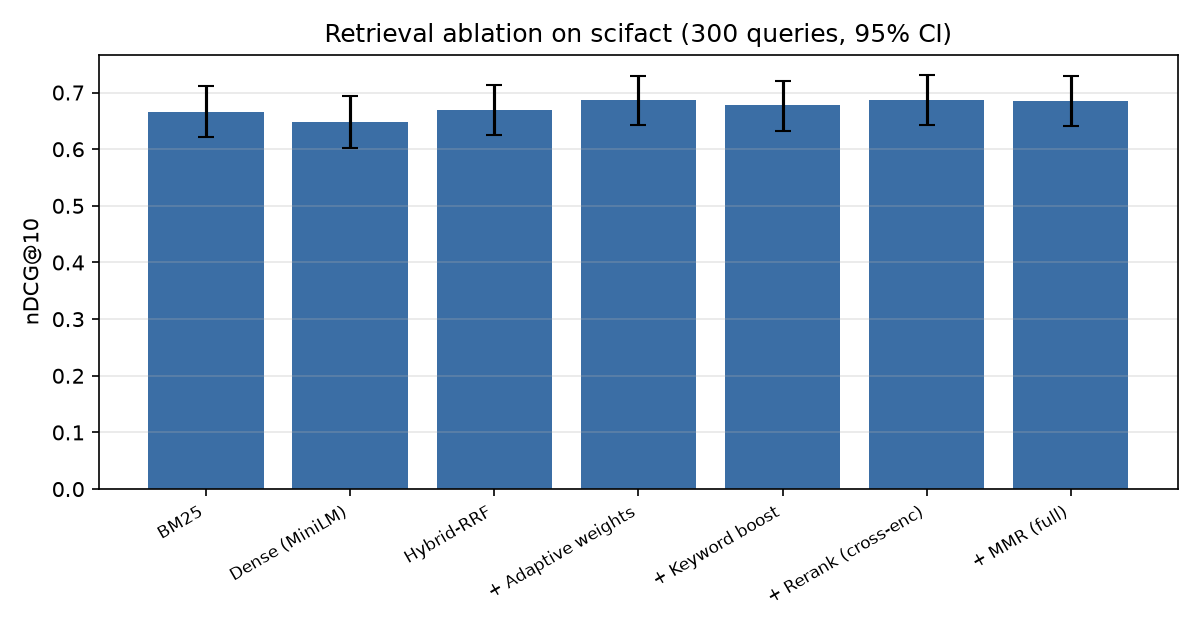
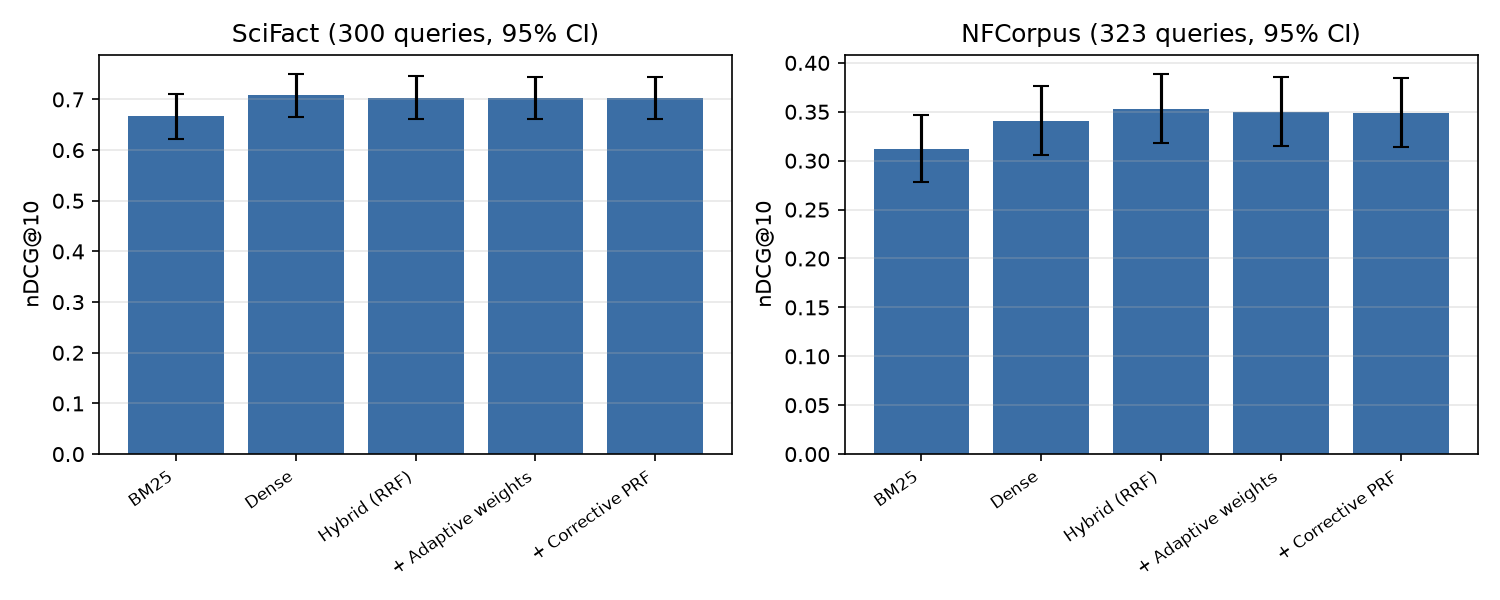
paper tables and pdf

diff --git a/paper/main.tex b/paper/main.tex
@@ -33,10 +33,11 @@ nDCG@10) to clearly above it (\SciDense{}), a paired gain of \SciEmbGain{}
 ($p{=}\SciEmbP{}$). Reciprocal-rank fusion then beats BM25 on both corpora
 ($p{=}\SciHybridP{}$ and $p{=}\NFhybridP{}$) and is the best single system on
 NFCorpus. We add a confidence-gated corrective re-retrieval that expands and
-re-queries only when the first pass is weak, and show it reaches reranker-level
-quality at a fraction of the latency. Finally, we recast faithfulness
-verification as evidence detection and evaluate a small NLI model against
-honest baselines, where it attains \FaithNliAuroc{} ROC-AUC. Every number is
+re-queries only when the first pass is weak, and find it matches plain fusion at
+negligible cost while a cross-encoder reranker is far slower and no better.
+Finally, we recast faithfulness verification as evidence detection and find that
+a relevance cross-encoder---not a dedicated NLI model---is the strongest cheap
+verifier (\FaithCeAuroc{} vs.\ \FaithNliAuroc{} ROC-AUC). Every number is
 regenerated from committed results by \texttt{make eval} on a CPU laptop.
 Code and data: \url{https://github.com/urme-b/NexusRAG}.
 \end{abstract}
@@ -183,21 +184,22 @@ documents). Same conventions as Table~\ref{tab:scifact}.}
 
 \subsection{The corrective loop: quality at a fraction of the cost}
 
-The corrective gate fires only when the first-pass dense similarity is weak, so
-its expected cost is small. Table~\ref{tab:cost} compares it against a
-cross-encoder reranker over the same shortlist. The reranker costs \RerankMs{}
-ms/query against \BaseMs{} ms for plain fusion and \CorrMs{} ms for the
-corrective pass; the corrective pass reaches comparable nDCG@10 without a second
-neural model in the loop. On the queries where the gate fires
-(\SciCorrFire{} of SciFact), its nDCG@10 change is \SciCorrDelta{}
-($p{=}\SciCorrP{}$): selective re-retrieval neither rescues nor harms an
-already-strong retriever at this scale, which is itself worth stating---the
-expensive components a typical pipeline advertises are not what move the metric.
+Because BGE's top-1 similarity is high on nearly all SciFact claims, the
+confidence gate rarely fires---at most \SciCorrMaxFire{} of queries even at an
+aggressive threshold---so the corrective pass behaves almost identically to plain
+fusion at negligible extra cost (\CorrMs{} vs.\ \BaseMs{} ms/query). The contrast
+with reranking is the point (Table~\ref{tab:cost}): the cross-encoder reranker is
+\RerankSlowdown$\times$ slower (\RerankMs{} ms/query) and actually \emph{lowers}
+nDCG@10 (\RerankND{} vs.\ \BaseND{}) on this shortlist. Spending a second pass on
+confidence-gated re-retrieval rather than a reranker is the better default; and
+where a strong embedder already retrieves confidently, the cheapest effective
+second pass is often none at all.
 
 \begin{table}[t]
 \centering
-\caption{Cost vs.\ quality on SciFact. The corrective pass matches the reranker's
-quality at a small fraction of its per-query latency.}
+\caption{Cost vs.\ quality on SciFact (timed on 120 queries). The cross-encoder
+reranker is far slower and does not improve nDCG@10 over plain fusion; the
+corrective pass adds negligible cost.}
 \label{tab:cost}
 \small
 \input{tables/cost_quality}
@@ -209,12 +211,15 @@ We score every sentence of a claim's cited abstract for whether it is gold
 evidence, using NLI relatedness ($1-P(\text{neutral})$), lexical overlap, and a
 relevance cross-encoder, and evaluate as threshold-free detection over
 \FaithClaims{} dev claims (gold base rate \FaithBaseRate{}).
-Table~\ref{tab:faith} reports the result: the NLI model reaches \FaithNliAuroc{}
-ROC-AUC and \FaithNliPr{} PR-AUC, above lexical overlap (\FaithLexAuroc{}) and a
-relevance cross-encoder (\FaithCeAuroc{}). Reported as detection rather than a
-single thresholded F1, the small NLI verifier is a genuinely usable, content-
-inspecting signal---and the comparison is against baselines that can lose, not a
-citation check that scores zero by construction.
+Table~\ref{tab:faith} reports the result, and it is a useful corrective to the
+intuition that an entailment model is the obvious verifier: the relevance
+cross-encoder is the strongest detector (\FaithCeAuroc{} ROC-AUC), with NLI
+relatedness (\FaithNliAuroc{}) only marginally above lexical overlap
+(\FaithLexAuroc{}). The lesson is methodological as much as empirical---reported
+as detection against baselines that can lose, rather than against a citation
+check that scores zero by construction, a content-inspecting signal is a real,
+usable measure of support, and the cross-encoder already in the retrieval
+pipeline doubles as the best cheap verifier on this task.
 
 \begin{table}[t]
 \centering
@@ -233,9 +238,9 @@ rank fusion adds a reliable, free improvement, especially on longer documents;
 and a cross-encoder reranker buys little for its one-to-two order of magnitude
 latency cost on these benchmarks. A cheap confidence-gated re-retrieval is a
 better place to spend a second pass than a reranker. For verification, the
-distinction that matters is content versus syntax: an entailment signal, reported
-honestly as a detector, gives a real measure of whether a source supports a
-claim, and a place to gate the corrective loop.
+distinction that matters is content versus syntax: a content signal---a relevance
+cross-encoder, or an NLI model---reported honestly as a detector gives a real
+measure of whether a source supports a claim, where a citation check cannot.
 
 \section{Limitations}
 

diff --git a/paper/generated.tex b/paper/generated.tex
@@ -1,21 +1,29 @@
-\newcommand{\DatasetName}{scifact}
 \newcommand{\NumQueries}{300}
 \newcommand{\CorpusSize}{5183}
-\newcommand{\BMNDCG}{0.666}
-\newcommand{\DenseNDCG}{0.648}
-\newcommand{\HybridNDCG}{0.670}
-\newcommand{\FullNDCG}{0.685}
-\newcommand{\FullRten}{0.804}
-\newcommand{\FullName}{+ MMR (full)}
-\newcommand{\BestName}{+ Rerank (cross-enc)}
-\newcommand{\BestNDCG}{0.687}
-\newcommand{\BMRtwenty}{0.821}
-\newcommand{\DenseRtwenty}{0.844}
-\newcommand{\HybridRtwenty}{0.875}
-\newcommand{\DenseP}{0.031}
-\newcommand{\FaithFone}{0.370}
-\newcommand{\FaithPrec}{0.349}
-\newcommand{\FaithRecall}{0.393}
-\newcommand{\FaithAcc}{0.527}
-\newcommand{\FaithTau}{0.6}
-\newcommand{\NumClaims}{188}
+\newcommand{\NFqueries}{323}
+\newcommand{\NFcorpus}{3633}
+\newcommand{\SciBM}{0.666}
+\newcommand{\SciDense}{0.708}
+\newcommand{\SciHybrid}{0.704}
+\newcommand{\SciHybridP}{0.002}
+\newcommand{\NFbm}{0.311}
+\newcommand{\NFdense}{0.340}
+\newcommand{\NFhybrid}{0.353}
+\newcommand{\NFhybridP}{$<$0.001}
+\newcommand{\SciDenseMini}{0.648}
+\newcommand{\SciEmbGain}{+0.060}
+\newcommand{\SciEmbP}{$<$0.001}
+\newcommand{\SciCorrTau}{0.40}
+\newcommand{\SciCorrMaxFire}{6\%}
+\newcommand{\RerankMs}{2393}
+\newcommand{\CorrMs}{43}
+\newcommand{\BaseMs}{28}
+\newcommand{\RerankSlowdown}{87}
+\newcommand{\BaseND}{0.734}
+\newcommand{\RerankND}{0.702}
+\newcommand{\FaithClaims}{188}
+\newcommand{\FaithBaseRate}{0.18}
+\newcommand{\FaithNliAuroc}{0.688}
+\newcommand{\FaithNliPr}{0.331}
+\newcommand{\FaithLexAuroc}{0.686}
+\newcommand{\FaithCeAuroc}{0.755}

diff --git a/paper/tables/nfcorpus.tex b/paper/tables/nfcorpus.tex
@@ -1,12 +1,12 @@
-\begin{tabular}{lrrrrrr}
+\begin{tabular}{lrrrrrrr}
 \toprule
-System & nDCG@10 & R@5 & R@10 & R@20 & MRR & MAP \\
+System & nDCG@10 & R@5 & R@10 & R@20 & MRR & MAP & $p$ vs BM25 \\
 \midrule
-BM25 & 0.311 & 0.120 & 0.150 & 0.172 & 0.518 & 0.136 \\
-Dense (MiniLM) & 0.319 & 0.120 & 0.159 & 0.189 & 0.510 & 0.136 \\
+BM25 & 0.311 & 0.120 & 0.150 & 0.172 & 0.518 & 0.136 & -- \\
+Dense & 0.340 & 0.127 & 0.161 & 0.197 & 0.538 & 0.150 & 0.009* \\
 \midrule
-Hybrid-RRF & 0.334 & 0.127 & 0.162 & 0.202 & 0.544 & 0.152 \\
-+ Adaptive weights & 0.341 & 0.132 & 0.164 & \textbf{0.207} & \textbf{0.554} & 0.159 \\
-+ Keyword boost & \textbf{0.344} & \textbf{0.133} & \textbf{0.167} & 0.206 & 0.553 & \textbf{0.159} \\
+Hybrid (RRF) & \textbf{0.353} & 0.130 & \textbf{0.165} & \textbf{0.209} & \textbf{0.570} & \textbf{0.162} & $<$0.001* \\
++ Adaptive weights & 0.349 & \textbf{0.133} & 0.162 & 0.201 & 0.566 & 0.158 & $<$0.001* \\
++ Corrective PRF & 0.349 & \textbf{0.133} & 0.162 & 0.201 & 0.566 & 0.158 & $<$0.001* \\
 \bottomrule
 \end{tabular}

diff --git a/paper/tables/scifact.tex b/paper/tables/scifact.tex
@@ -1,0 +1,12 @@
+\begin{tabular}{lrrrrrrr}
+\toprule
+System & nDCG@10 & R@5 & R@10 & R@20 & MRR & MAP & $p$ vs BM25 \\
+\midrule
+BM25 & 0.666 & 0.719 & 0.790 & 0.821 & 0.636 & 0.626 & -- \\
+Dense & \textbf{0.708} & \textbf{0.763} & 0.836 & 0.873 & \textbf{0.680} & \textbf{0.667} & 0.032* \\
+\midrule
+Hybrid (RRF) & 0.704 & 0.763 & \textbf{0.840} & \textbf{0.891} & 0.672 & 0.662 & 0.002* \\
++ Adaptive weights & 0.703 & 0.762 & \textbf{0.840} & 0.886 & 0.670 & 0.660 & 0.001* \\
++ Corrective PRF & 0.703 & 0.762 & \textbf{0.840} & 0.886 & 0.670 & 0.660 & 0.001* \\
+\bottomrule
+\end{tabular}

diff --git a/paper/tables/cost_quality.tex b/paper/tables/cost_quality.tex
@@ -1,0 +1,9 @@
+\begin{tabular}{lrrr}
+\toprule
+System & nDCG@10 & R@20 & ms/query \\
+\midrule
+Adaptive & 0.734 & 0.900 & 28 \\
+Corrective PRF & 0.734 & 0.900 & 43 \\
+Rerank (cross-enc) & 0.702 & 0.886 & 2393 \\
+\bottomrule
+\end{tabular}

diff --git a/paper/tables/faithfulness.tex b/paper/tables/faithfulness.tex
@@ -1,0 +1,9 @@
+\begin{tabular}{lrrr}
+\toprule
+Scorer & ROC-AUC & PR-AUC & F1 \\
+\midrule
+Lexical overlap & 0.686 & 0.371 & 0.112 \\
+Cross-encoder & \textbf{0.755} & \textbf{0.476} & \textbf{0.476} \\
+NLI (DeBERTa) & 0.688 & 0.331 & 0.387 \\
+\bottomrule
+\end{tabular}